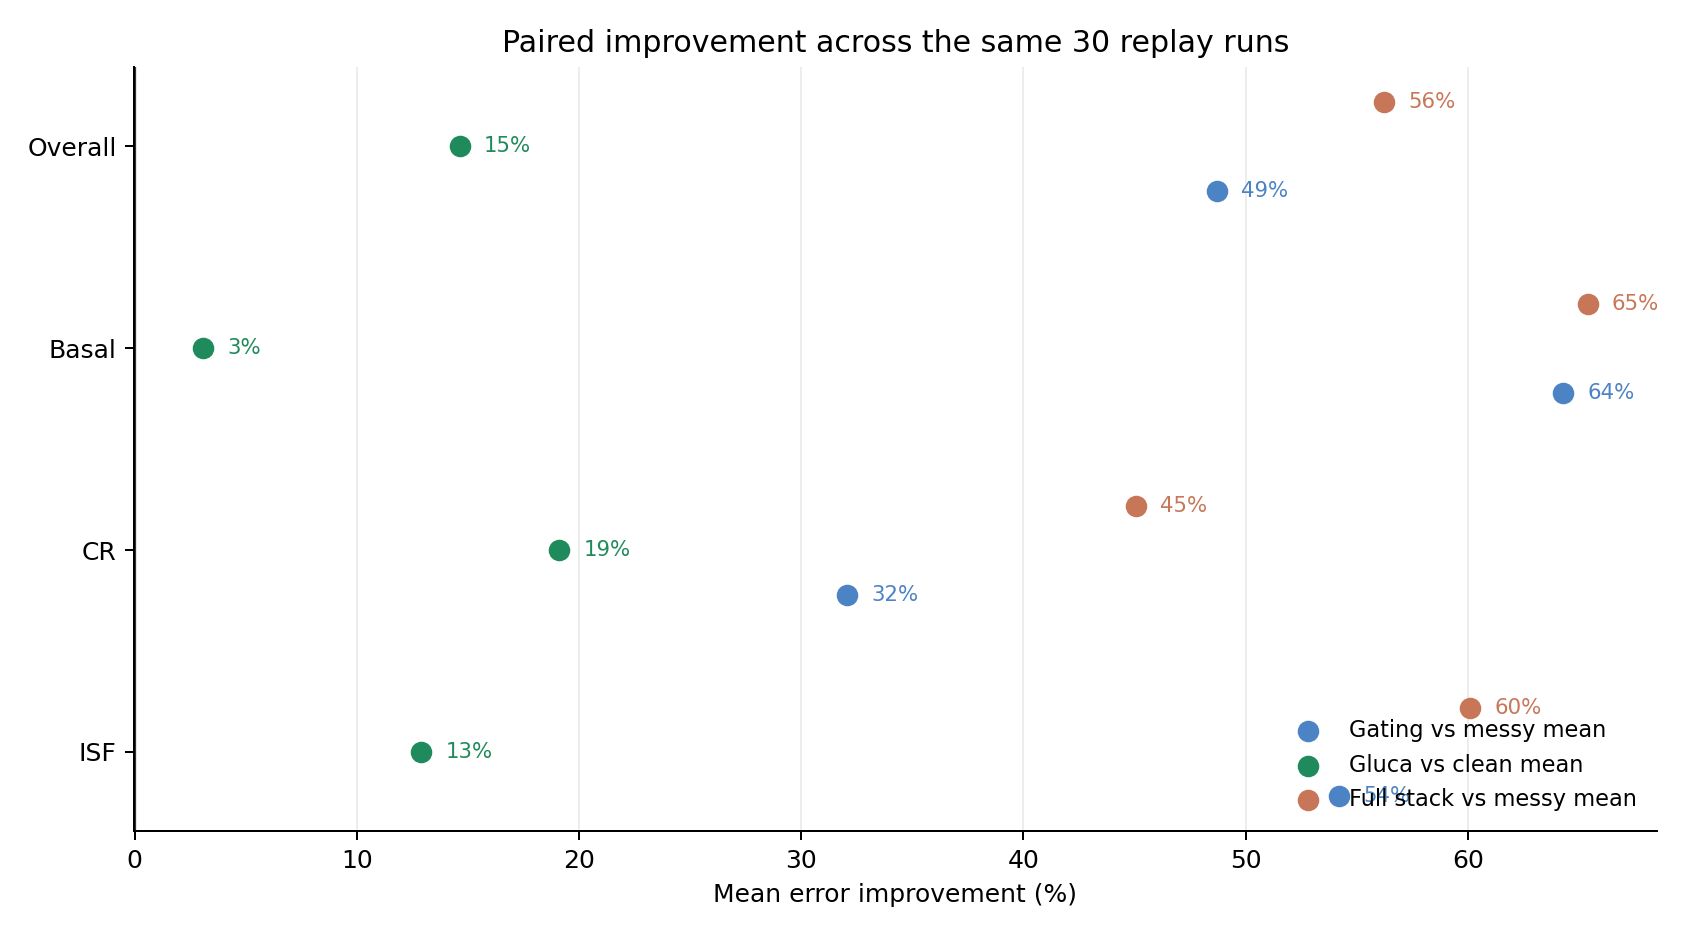
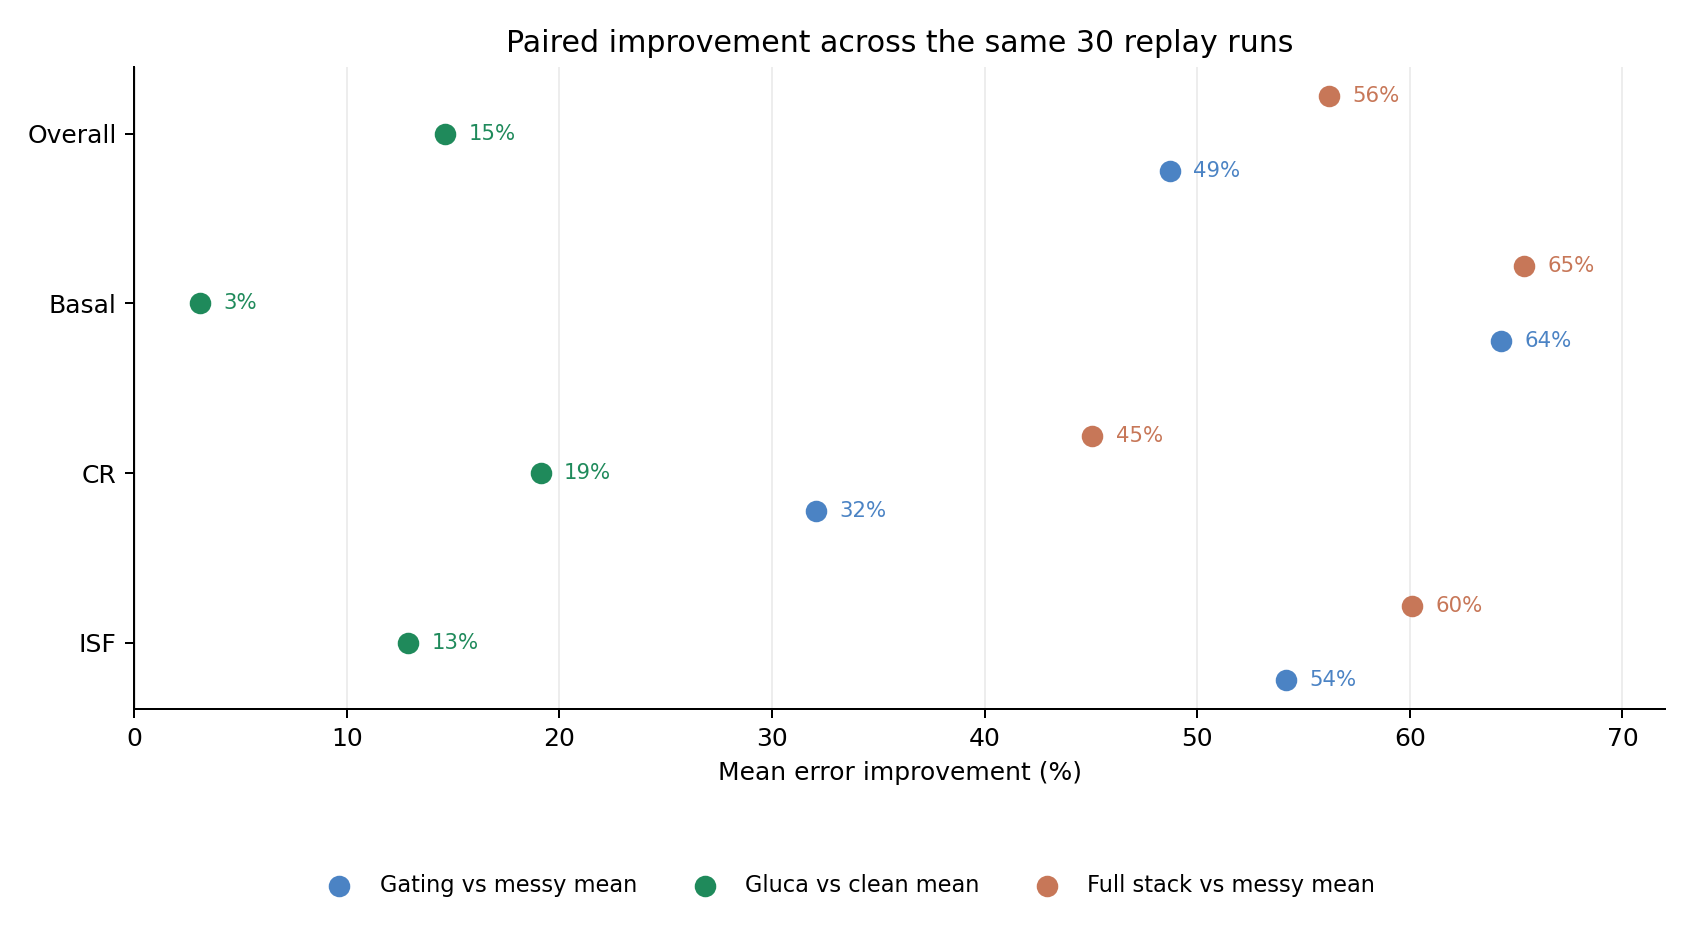
Fix messy paired improvement plot legend

diff --git a/validation/messy_data_validation/run_messy_data_contribution.py b/validation/messy_data_validation/run_messy_data_contribution.py
@@ -408,10 +408,14 @@ def make_plots(outdir: Path, aggregate: list[dict[str, Any]], comparisons: list[
     ax.set_yticklabels(params)
     ax.set_xlabel("Mean error improvement (%)")
     ax.set_title("Paired improvement across the same 30 replay runs")
+    ax.set_xlim(0, 72)
     ax.spines[["top", "right"]].set_visible(False)
     ax.grid(axis="x", alpha=0.22)
-    ax.legend(frameon=False, fontsize=9, loc="lower right")
-    finish(fig, outdir / "04_messy_paired_improvement.png")
+    handles, legend_labels = ax.get_legend_handles_labels()
+    fig.legend(handles, legend_labels, frameon=False, fontsize=9, loc="lower center", ncols=3, bbox_to_anchor=(0.5, 0.02))
+    fig.tight_layout(rect=(0, 0.13, 1, 1))
+    fig.savefig(outdir / "04_messy_paired_improvement.png", dpi=180)
+    plt.close(fig)
 
     # 05: run-level distribution.
     fig, ax = plt.subplots(figsize=(8.8, 5.0))